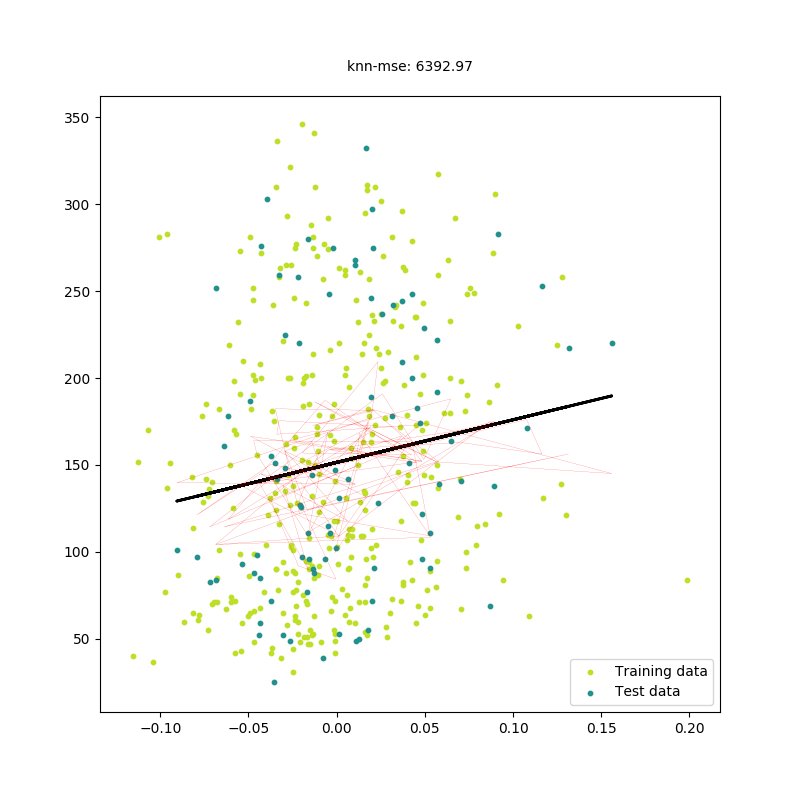
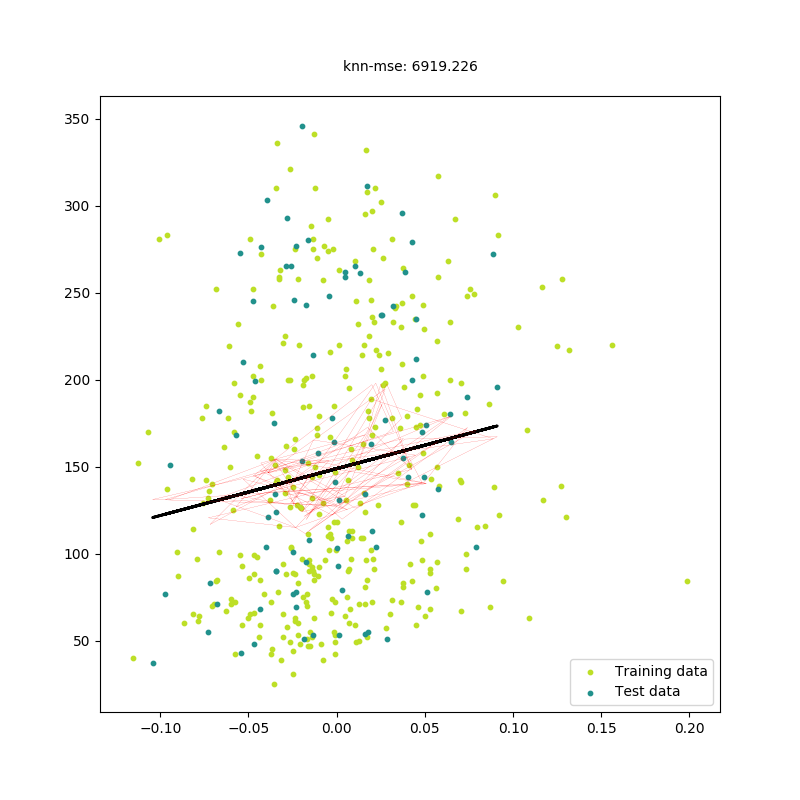
update

diff --git a/Datasci_Fall_18/ds310/Lab/Lab2.py b/Datasci_Fall_18/ds310/Lab/Lab2.py
@@ -101,33 +101,33 @@ def test_all_features():
         fig.savefig(fname='plots/{}.png'.format(m))
 
 
-def test_single_feature(plt):
+def test_single_feature():
     n_features = 10
     metric = ['mse', 'mse_log', 'mse_abs']
     for d in range(2, n_features):
         X, y = load_dataset(all_features=False, dim=d)
         X_train, X_test, y_train, y_test = split_dataset(X, y)
         fig = plt.figure(figsize=(8, 8))
-        plt = plot_scatter(X_train, y_train, X_test, y_test)
+        plt_ = plot_scatter(X_train, y_train, X_test, y_test)
 
         lr = regressor()
         lr = fit(regressor_model=lr, X=X_train, y=y_train)
         lr_y_pred = predict(regressor_model=lr, X=X_test)
 
-        kr = regressor(model='knn', neighbors=10)
+        kr = regressor(model='knn', neighbors=20)
         kr = fit(regressor_model=kr, X=X_train, y=y_train)
         kr_y_pred = predict(regressor_model=kr, X=X_test)
 
         for me in metric:
             lr_err = loss(y_real=y_test, y_pred=lr_y_pred, metric=me)
             kr_err = loss(y_real=y_test, y_pred=kr_y_pred, metric=me)
-            plot_line(X=X_test, y_pred=lr_y_pred, plt=plt, model='linear',
+            plot_line(X=X_test, y_pred=lr_y_pred, plt=plt_, model='linear',
                       metric=me, error=lr_err, color='black')
-            plot_line(X=X_test, y_pred=kr_y_pred, plt=plt, model='knn',
+            plot_line(X=X_test, y_pred=kr_y_pred, plt=plt_, model='knn',
                       metric=me, error=kr_err, color='red', linewidth=0.1)
             fig.savefig(fname='out_pred_plots/' + me + '-feature{}.png'.format(d))
 
 
 if __name__ == '__main__':
-    test_all_features()
-    #test_single_feature(plt)
+    #test_all_features()
+    test_single_feature()
